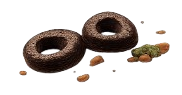
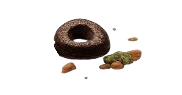
finished oven sequence

diff --git a/game.js b/game.js
@@ -209,6 +209,7 @@ class KitchenScene extends Phaser.Scene {
     this.load.image("ingredient_sauce", "assets/ingredients/sauce.png");
     this.load.image("ingredient_olives", "assets/ingredients/olives.png");
     this.load.image("dough_base", "assets/ingredients/dough.png");
+    this.load.image("dough_baked", "assets/ingredients/dough-baked.png");
     this.load.image("ladle_cursor", "assets/ingredients/sauce_cursor.png");
     this.load.image("cheese_cursor", "assets/ingredients/cheese_cursor.png");
     this.load.image("cheese_sprinkle_1", "assets/ingredients/cheese1.png");
@@ -489,6 +490,7 @@ class KitchenScene extends Phaser.Scene {
     return layers;
   }
 
+  // Custom cursor for sauce ladle.
   createLadleCursor(ui) {
     const ladle = this.add.image(0, 0, "ladle_cursor");
     ladle.setOrigin(0, 1);
@@ -692,6 +694,7 @@ class KitchenScene extends Phaser.Scene {
     });
   }
 
+  // Capture pizza snapshot and animate on conveyor belt.
   sendPizzaToOven() {
     if (!this.isPizzaOnBench) {
       return;
@@ -706,23 +709,31 @@ class KitchenScene extends Phaser.Scene {
     const localY = (bounds.y - this.ui.y) / this.ui.scaleY;
     const width = Math.ceil(bounds.width / this.ui.scaleX);
     const height = Math.ceil(bounds.height / this.ui.scaleY);
-    const snapshot = this.add.renderTexture(0, 0, width, height);
-    snapshot.draw(this.pizzaContainer, -localX, -localY);
-    snapshot.setOrigin(0, 0);
-    snapshot.setPosition(0, 0);
+    const wasDoughVisible = this.dough.visible;
+    this.dough.setVisible(false);
+    const toppingsSnapshot = this.add.renderTexture(0, 0, width, height);
+    toppingsSnapshot.draw(this.pizzaContainer, -localX, -localY);
+    toppingsSnapshot.setOrigin(0, 0);
+    toppingsSnapshot.setPosition(0, 0);
+    this.dough.setVisible(wasDoughVisible);
 
-    // dough overlay for color change
-    const doughOverlay = this.add.renderTexture(0, 0, width, height);
-    doughOverlay.draw(this.dough, -localX, -localY);
-    doughOverlay.setOrigin(0, 0);
-    doughOverlay.setPosition(0, 0);
-    doughOverlay.setTint(0xffffff);
-    doughOverlay.setBlendMode(Phaser.BlendModes.MULTIPLY);
+    const doughOffsetX = this.dough.x - localX;
+    const doughOffsetY = this.dough.y - localY;
+    const doughWidth = this.dough.displayWidth;
+    const doughHeight = this.dough.displayHeight;
 
+    const rawDough = this.add.image(doughOffsetX, doughOffsetY, "dough_base");
+    rawDough.setDisplaySize(doughWidth, doughHeight);
+
+    const bakedDough = this.add.image(doughOffsetX, doughOffsetY, "dough_baked");
+    bakedDough.setDisplaySize(doughWidth, doughHeight);
+    bakedDough.setAlpha(0);
+
+    // place it on the belt
     const beltScale = 0.55;
-    const beltPizza = this.add.container(350, 250);
+    const beltPizza = this.add.container(350, 245);
     beltPizza.setScale(beltScale);
-    beltPizza.add([snapshot, doughOverlay]);
+    beltPizza.add([rawDough, bakedDough, toppingsSnapshot]);
     this.ui.add(beltPizza);
 
     // shaking effect
@@ -739,12 +750,14 @@ class KitchenScene extends Phaser.Scene {
       });
     });
 
-    // animation on conveyor belt
+    // travel on conveyor belt
+    const travelDelay = 1000;
+    const travelDuration = 7000;
     this.tweens.add({
       targets: beltPizza,
       x: 1220,
-      duration: 7000,
-      delay: 1000,
+      duration: travelDuration,
+      delay: travelDelay,
       ease: "Sine.easeInOut",
       onComplete: () => {
         if (shakeTween) {
@@ -754,8 +767,8 @@ class KitchenScene extends Phaser.Scene {
       },
     });
 
-    // baking effect
-    const bakeStartDelay = 1000 + 1600;
+    // color change baking effect for toppings
+    const bakeStartDelay = travelDelay + 1600;
     const bakeDuration = 4900;
     this.tweens.addCounter({
       from: 0,
@@ -771,27 +784,26 @@ class KitchenScene extends Phaser.Scene {
           1,
           value
         );
-        snapshot.setTint(Phaser.Display.Color.GetColor(color.r, color.g, color.b));
+        toppingsSnapshot.setTint(Phaser.Display.Color.GetColor(color.r, color.g, color.b));
       },
     });
 
-    // color change for dough
-    this.tweens.addCounter({
-      from: 0,
-      to: 1,
-      duration: bakeDuration,
-      delay: bakeStartDelay,
+    // dough swap effect
+    const doughSwapDelay = travelDelay + Math.round(travelDuration * 0.4);
+    const doughSwapDuration = 1200;
+    this.tweens.add({
+      targets: rawDough,
+      alpha: 0,
+      duration: doughSwapDuration,
+      delay: doughSwapDelay,
       ease: "Sine.easeInOut",
-      onUpdate: (tween) => {
-        const value = tween.getValue();
-        const color = Phaser.Display.Color.Interpolate.ColorWithColor(
-          { r: 255, g: 255, b: 255 },
-          { r: 160, g: 80, b: 65 },
-          1,
-          value
-        );
-        doughOverlay.setTint(Phaser.Display.Color.GetColor(color.r, color.g, color.b));
-      },
+    });
+    this.tweens.add({
+      targets: bakedDough,
+      alpha: 1,
+      duration: doughSwapDuration,
+      delay: doughSwapDelay,
+      ease: "Sine.easeInOut",
     });
 
     this.pizzaContainer.setVisible(false);
